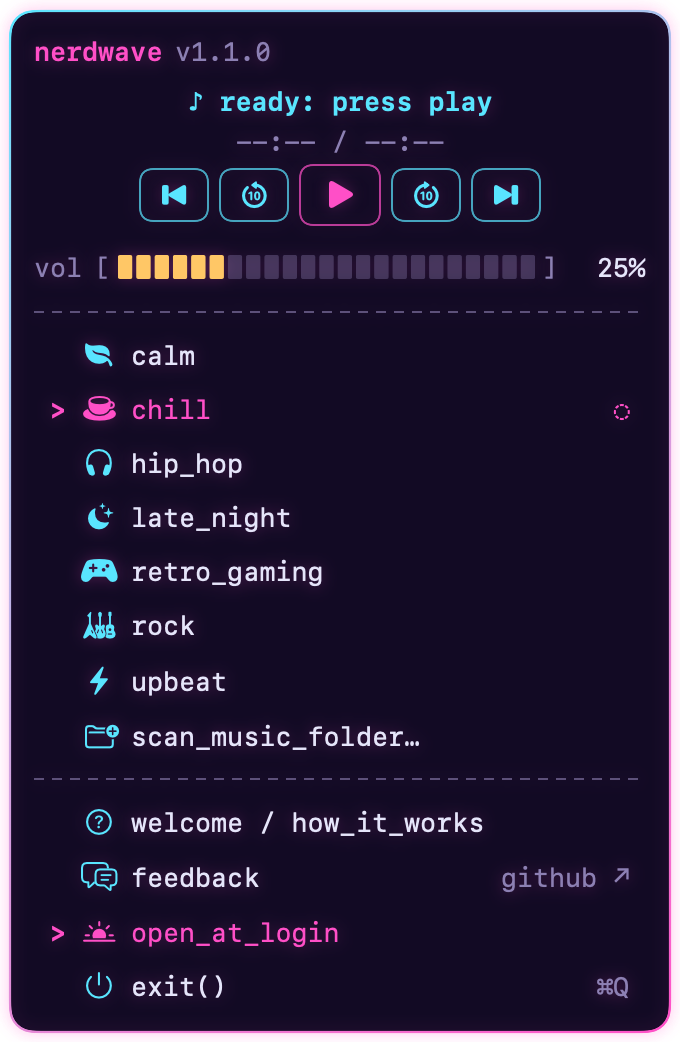
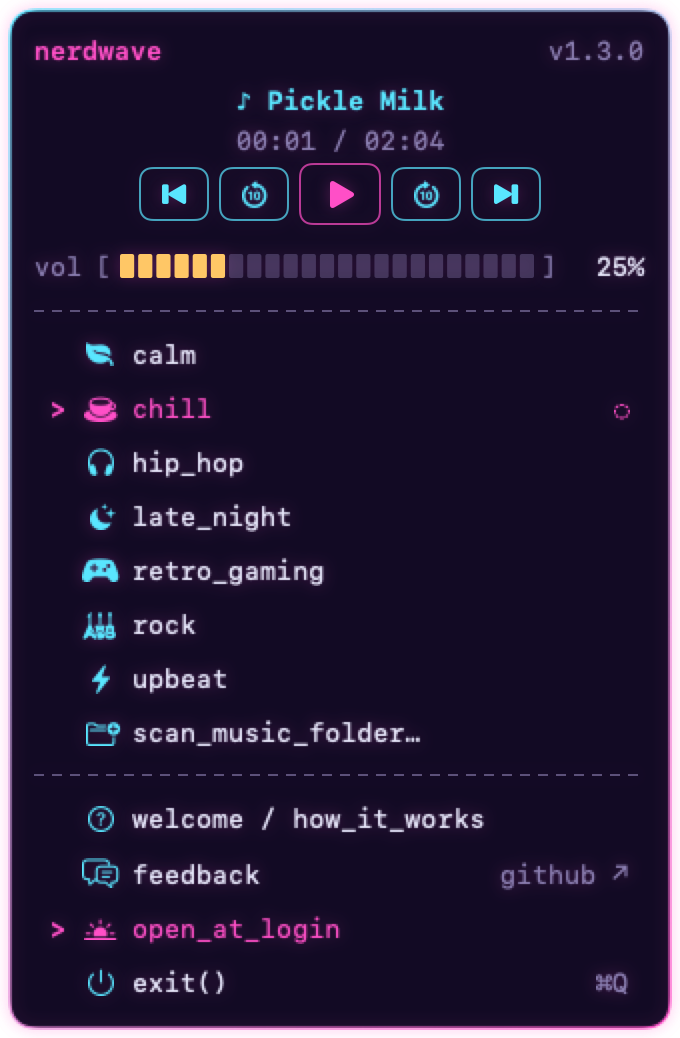
Scroll long playlist lists inside the panel
More than seven playlists scroll in place (seven and a half rows show, starting at the active one), with the scan row kept right under the list. Panel snapshots now render through an offscreen window, since ImageRenderer can't draw scroll views.

diff --git a/Sources/App/main.swift b/Sources/App/main.swift
@@ -251,7 +251,15 @@ struct NerdView: View {
                     .foregroundColor(Theme.dim)
                     .help("build " + (Bundle.main.object(forInfoDictionaryKey: "CFBundleVersion") as? String ?? "dev"))
             }
-            ForEach(Array(model.entries.enumerated()), id: \.offset) { _, entry in row(entry) }
+            let entries = model.entries
+            let isPlaylist: (MenuEntry) -> Bool = { if case .playlist = $0 { return true }; return false }
+            if let first = entries.firstIndex(where: isPlaylist), let last = entries.lastIndex(where: isPlaylist) {
+                ForEach(Array(entries[..<first].enumerated()), id: \.offset) { _, entry in row(entry) }
+                playlistList(Array(entries[first...last]))
+                ForEach(Array(entries[(last + 1)...].enumerated()), id: \.offset) { _, entry in row(entry) }
+            } else {
+                ForEach(Array(entries.enumerated()), id: \.offset) { _, entry in row(entry) }
+            }
         }
         .font(Theme.font)
         .foregroundColor(Theme.text)
@@ -263,6 +271,33 @@ struct NerdView: View {
                     lineWidth: 1.2))
         .shadow(color: Theme.magenta.opacity(0.28), radius: 4)
         .padding(5)           // room for the glow
+    }
+
+    static let playlistRowHeight: CGFloat = 22
+    static let visiblePlaylists = 7
+
+    /// The playlists. More than seven scroll inside the panel: seven and a half rows show, so the cut-off row
+    /// hints that there is more, and the list starts scrolled to the active playlist.
+    @ViewBuilder private func playlistList(_ items: [MenuEntry]) -> some View {
+        let rows = VStack(alignment: .leading, spacing: 5) {
+            ForEach(Array(items.enumerated()), id: \.offset) { _, entry in
+                row(entry).frame(height: Self.playlistRowHeight).id(playlistName(entry))
+            }
+        }
+        if items.count > Self.visiblePlaylists {
+            ScrollViewReader { proxy in
+                ScrollView(.vertical) { rows }
+                    .frame(height: (CGFloat(Self.visiblePlaylists) + 0.5) * (Self.playlistRowHeight + 5) - 5)
+                    .onAppear { if let c = model.current { proxy.scrollTo(c, anchor: .center) } }
+            }
+        } else {
+            rows
+        }
+    }
+
+    private func playlistName(_ entry: MenuEntry) -> String? {
+        if case let .playlist(name, _, _) = entry { return name }
+        return nil
     }
 
     @ViewBuilder private func row(_ entry: MenuEntry) -> some View {
@@ -771,12 +806,23 @@ final class AppDelegate: NSObject, NSApplicationDelegate {
             let host = NSHostingView(rootView: NerdView(model: model))
             let size = host.fittingSize
             print("fitting size:", size)
-            host.frame = NSRect(origin: .zero, size: size)
-            let renderer = ImageRenderer(content: NerdView(model: model).frame(width: size.width, height: size.height))
-            renderer.scale = 2
-            if let img = renderer.nsImage, let tiff = img.tiffRepresentation, let rep = NSBitmapImageRep(data: tiff),
-               let png = rep.representation(using: .png, properties: [:]) {
-                try? png.write(to: URL(fileURLWithPath: CommandLine.arguments[i + 1]))
+            // Drawn through a real (offscreen) window at 2x: ImageRenderer can't draw scroll views.
+            let window = NSWindow(contentRect: NSRect(origin: NSPoint(x: -10_000, y: -10_000), size: size),
+                                  styleMask: [.borderless], backing: .buffered, defer: false)
+            window.backgroundColor = .clear
+            window.isOpaque = false
+            window.contentView = host
+            window.orderFrontRegardless()
+            host.layoutSubtreeIfNeeded()
+            RunLoop.main.run(until: Date().addingTimeInterval(0.3))     // let the scroll view lay out and scroll
+            if let rep = NSBitmapImageRep(bitmapDataPlanes: nil, pixelsWide: Int(size.width * 2), pixelsHigh: Int(size.height * 2),
+                                          bitsPerSample: 8, samplesPerPixel: 4, hasAlpha: true, isPlanar: false,
+                                          colorSpaceName: .deviceRGB, bytesPerRow: 0, bitsPerPixel: 0) {
+                rep.size = size
+                host.cacheDisplay(in: host.bounds, to: rep)
+                if let png = rep.representation(using: .png, properties: [:]) {
+                    try? png.write(to: URL(fileURLWithPath: CommandLine.arguments[i + 1]))
+                }
             }
             exit(0)
         }

diff --git a/Tests/MusicCoreTests/MusicCoreTests.swift b/Tests/MusicCoreTests/MusicCoreTests.swift
@@ -468,6 +468,16 @@ final class MenuTests: XCTestCase {
         XCTAssertTrue(e.contains(.openAtLogin(on: true)))
     }
 
+    func testScanFollowsThePlaylistsInTheirSection() {
+        let names = (1...12).map { "Mood \($0)" }
+        let e = menuEntries(for: MenuState(playlists: names, current: nil, isPlaying: false, nowPlaying: nil,
+                                           volumePercent: 25, openAtLogin: false))
+        let lastPlaylist = e.lastIndex { if case .playlist = $0 { return true }; return false }!
+        XCTAssertEqual(e[lastPlaylist + 1], .scanFolder(highlighted: false), "right under the list, outside its scroll")
+        XCTAssertEqual(e[lastPlaylist + 2], .separator)
+        XCTAssertEqual(e[lastPlaylist + 3], .welcome)
+    }
+
     func testLayoutWhenIdleAndEmpty() {
         let e = menuEntries(for: MenuState(playlists: [], current: nil, isPlaying: false, nowPlaying: nil,
                                            volumePercent: 100, openAtLogin: false))

diff --git a/Sources/MusicCore/MenuModel.swift b/Sources/MusicCore/MenuModel.swift
@@ -45,7 +45,8 @@ public struct MenuState {
     }
 }
 
-/// Transport controls first, then what's playing and the volume, the playlists, and Exit last.
+/// Transport controls first, then what's playing and the volume, the playlists (the panel scrolls them when
+/// there are many) with the scan row right under them, then welcome, feedback, open at login, and Exit last.
 public func menuEntries(for s: MenuState) -> [MenuEntry] {
     var items: [MenuEntry] = [.transport(playing: s.isPlaying, enabled: s.current != nil,
                                          canGoBack: s.canGoBack && s.current != nil)]
